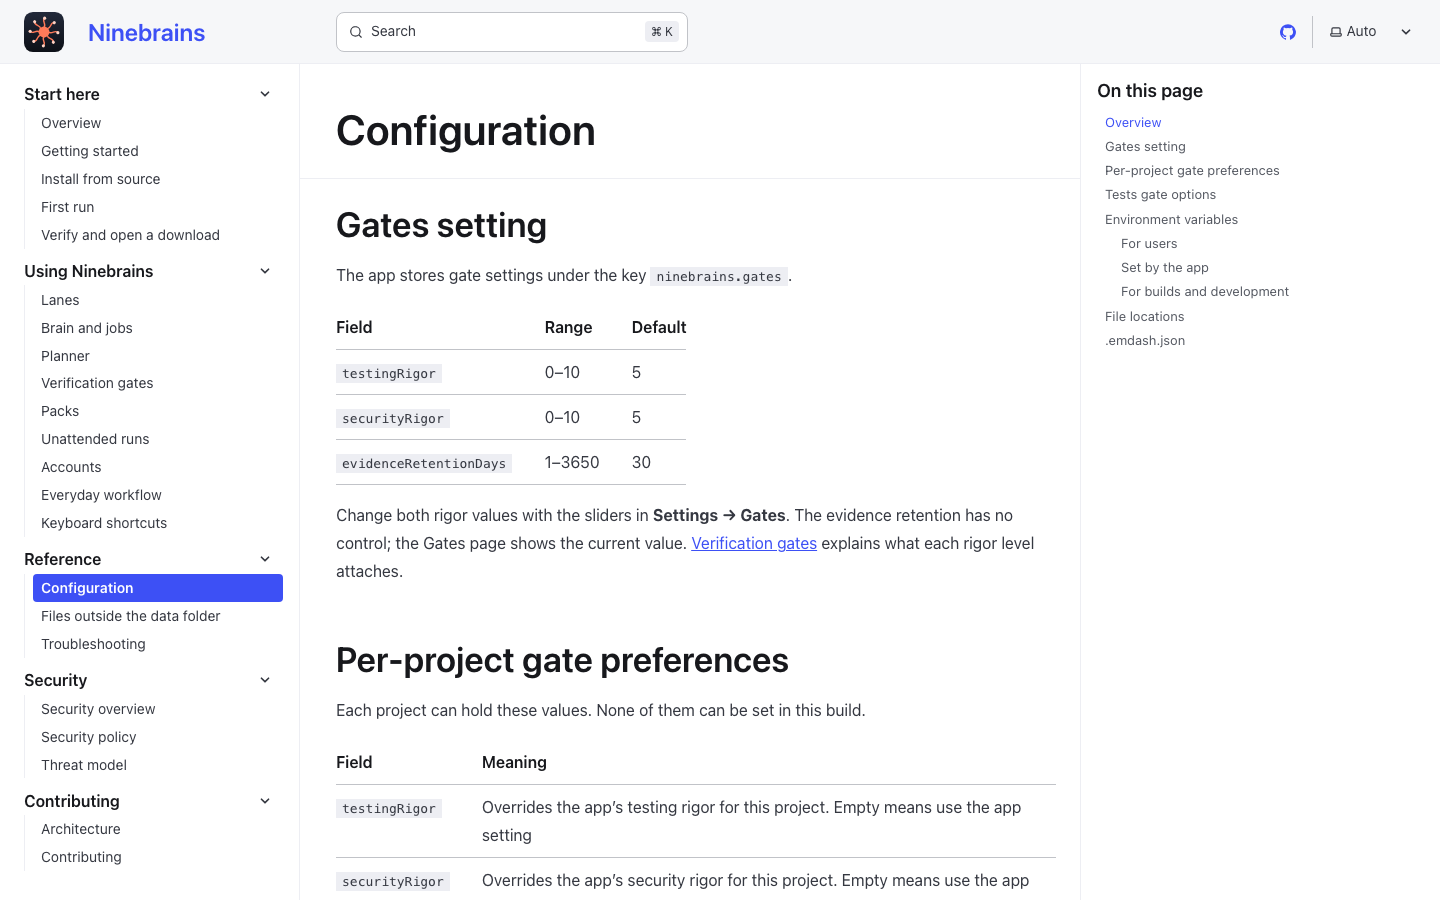
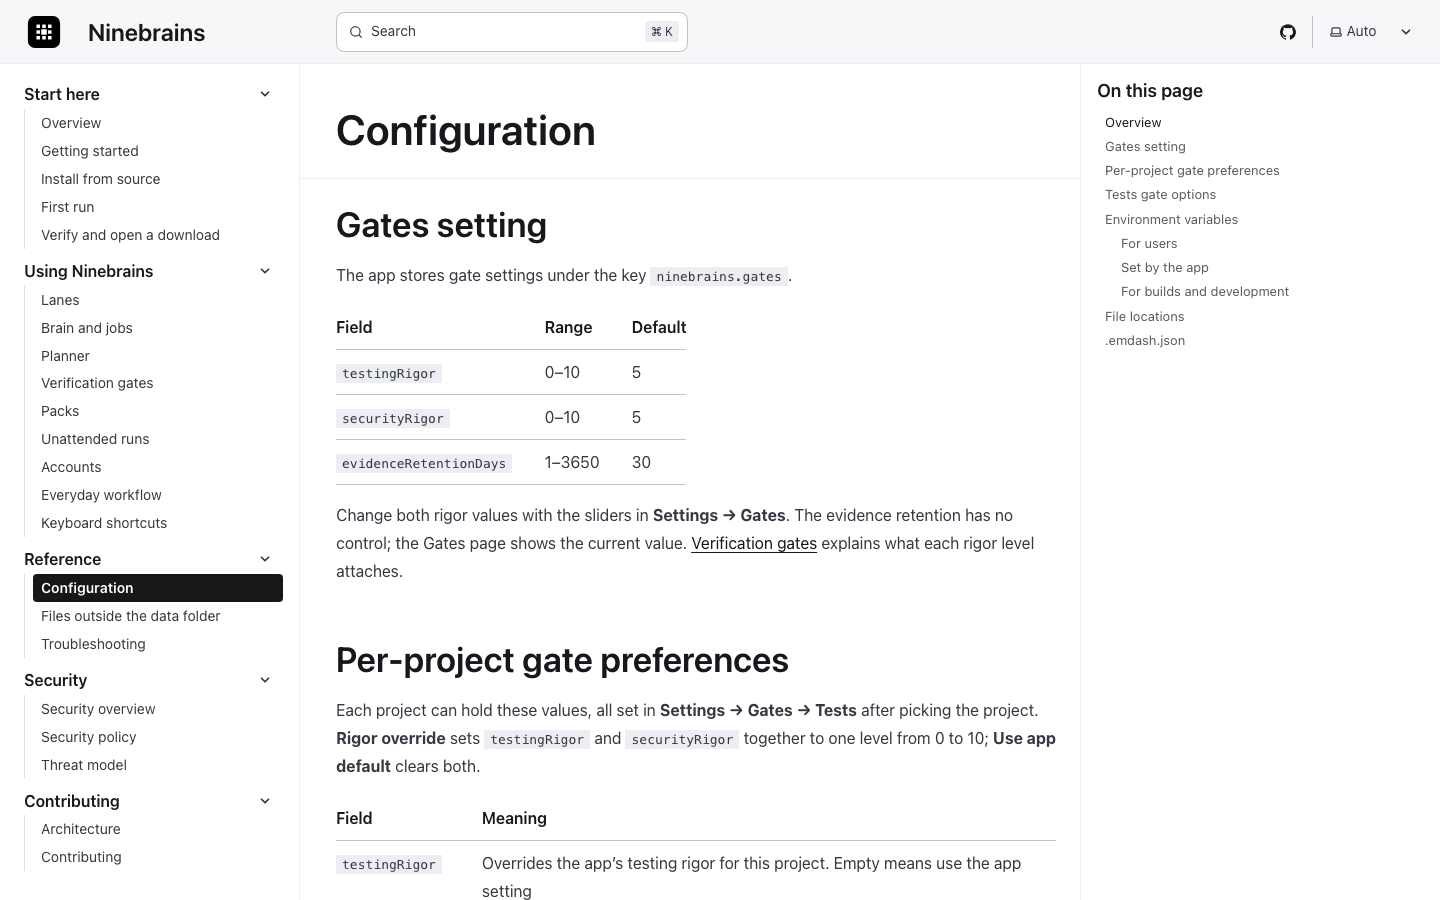
fix(screenshots): regenerate for the black-and-white theme
Every app and docs screenshot was showing the jade primary button.

The Models shot also published a section reading 'Loading...': the Agents panel
takes its status as a prop and the screenshot test never passed one. The panel
shipped in #21 but the shot was last regenerated in #18, so the baseline
predated it. Seeded with Claude installed and Codex not.

diff --git a/apps/emdash-desktop/src/renderer/tests/browser/routing-screenshots.test.tsx b/apps/emdash-desktop/src/renderer/tests/browser/routing-screenshots.test.tsx
@@ -20,6 +20,7 @@ import {
   type ProfilesListing,
   type Vendor,
 } from '@core/features/routing/api';
+import type { AgentCliStatusEntry } from '@core/features/routing/api';
 import { ModelsSettingsPanel } from '@core/features/routing/browser/models-settings-view';
 import { ThemeProvider } from '@core/primitives/theme/browser/theme-provider';
 import { resetWireConnection, seedWireConnection } from '@core/primitives/wire/browser/connection';
@@ -217,11 +218,40 @@ const CONNECTED = {
   modelCount: 12,
 };
 
+/**
+ * What the Agents panel shows on a machine with Claude installed and Codex not. The panel is
+ * read-only and takes its data as a prop: passing null leaves it reading "Loading…", which is
+ * not what the docs should publish.
+ */
+const AGENT_STATUS: AgentCliStatusEntry[] = [
+  {
+    provider: 'claude',
+    installed: true,
+    path: '/usr/local/bin/claude',
+    roles: [
+      { role: 'worker', mode: { kind: 'subscription' } },
+      { role: 'subagent', mode: { kind: 'subscription' } },
+      { role: 'reviewer', mode: { kind: 'subscription' } },
+    ],
+  },
+  {
+    provider: 'codex',
+    installed: false,
+    path: null,
+    roles: [
+      { role: 'worker', mode: { kind: 'subscription' } },
+      { role: 'subagent', mode: { kind: 'subscription' } },
+      { role: 'reviewer', mode: { kind: 'subscription' } },
+    ],
+  },
+];
+
 function Models({ listing }: { listing: ProfilesListing }) {
   return (
     <div className="h-full overflow-y-auto">
       <ModelsSettingsPanel
         listing={listing}
+        agentStatus={AGENT_STATUS}
         tests={{ 'p-ant': CONNECTED }}
         onSaveProfile={async () => true}
         onTest={noop}
